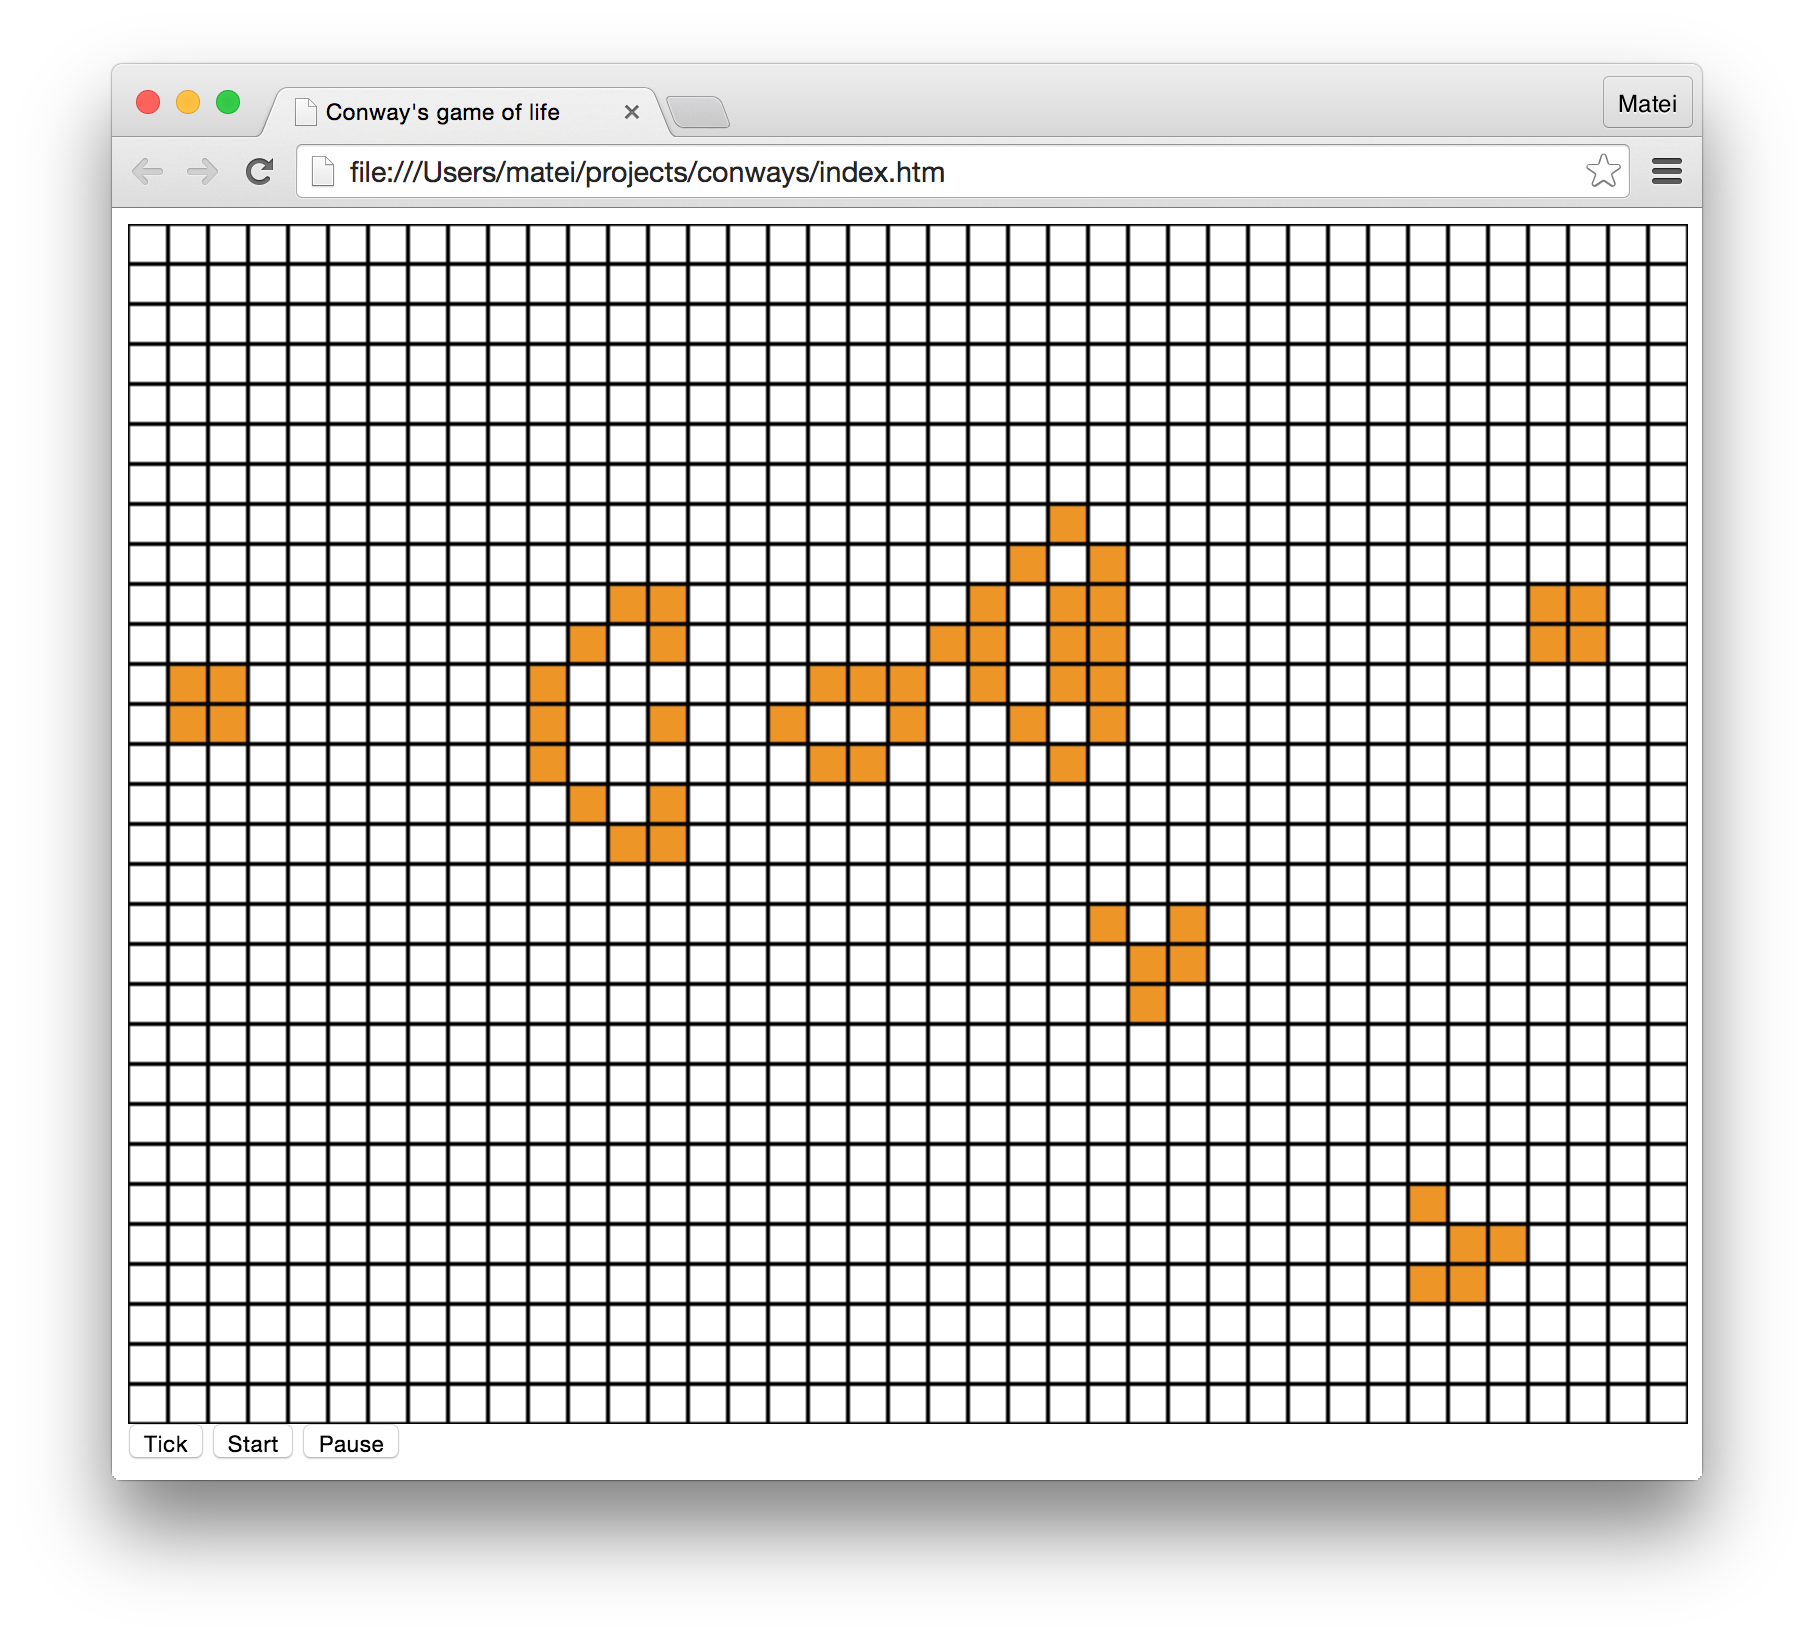
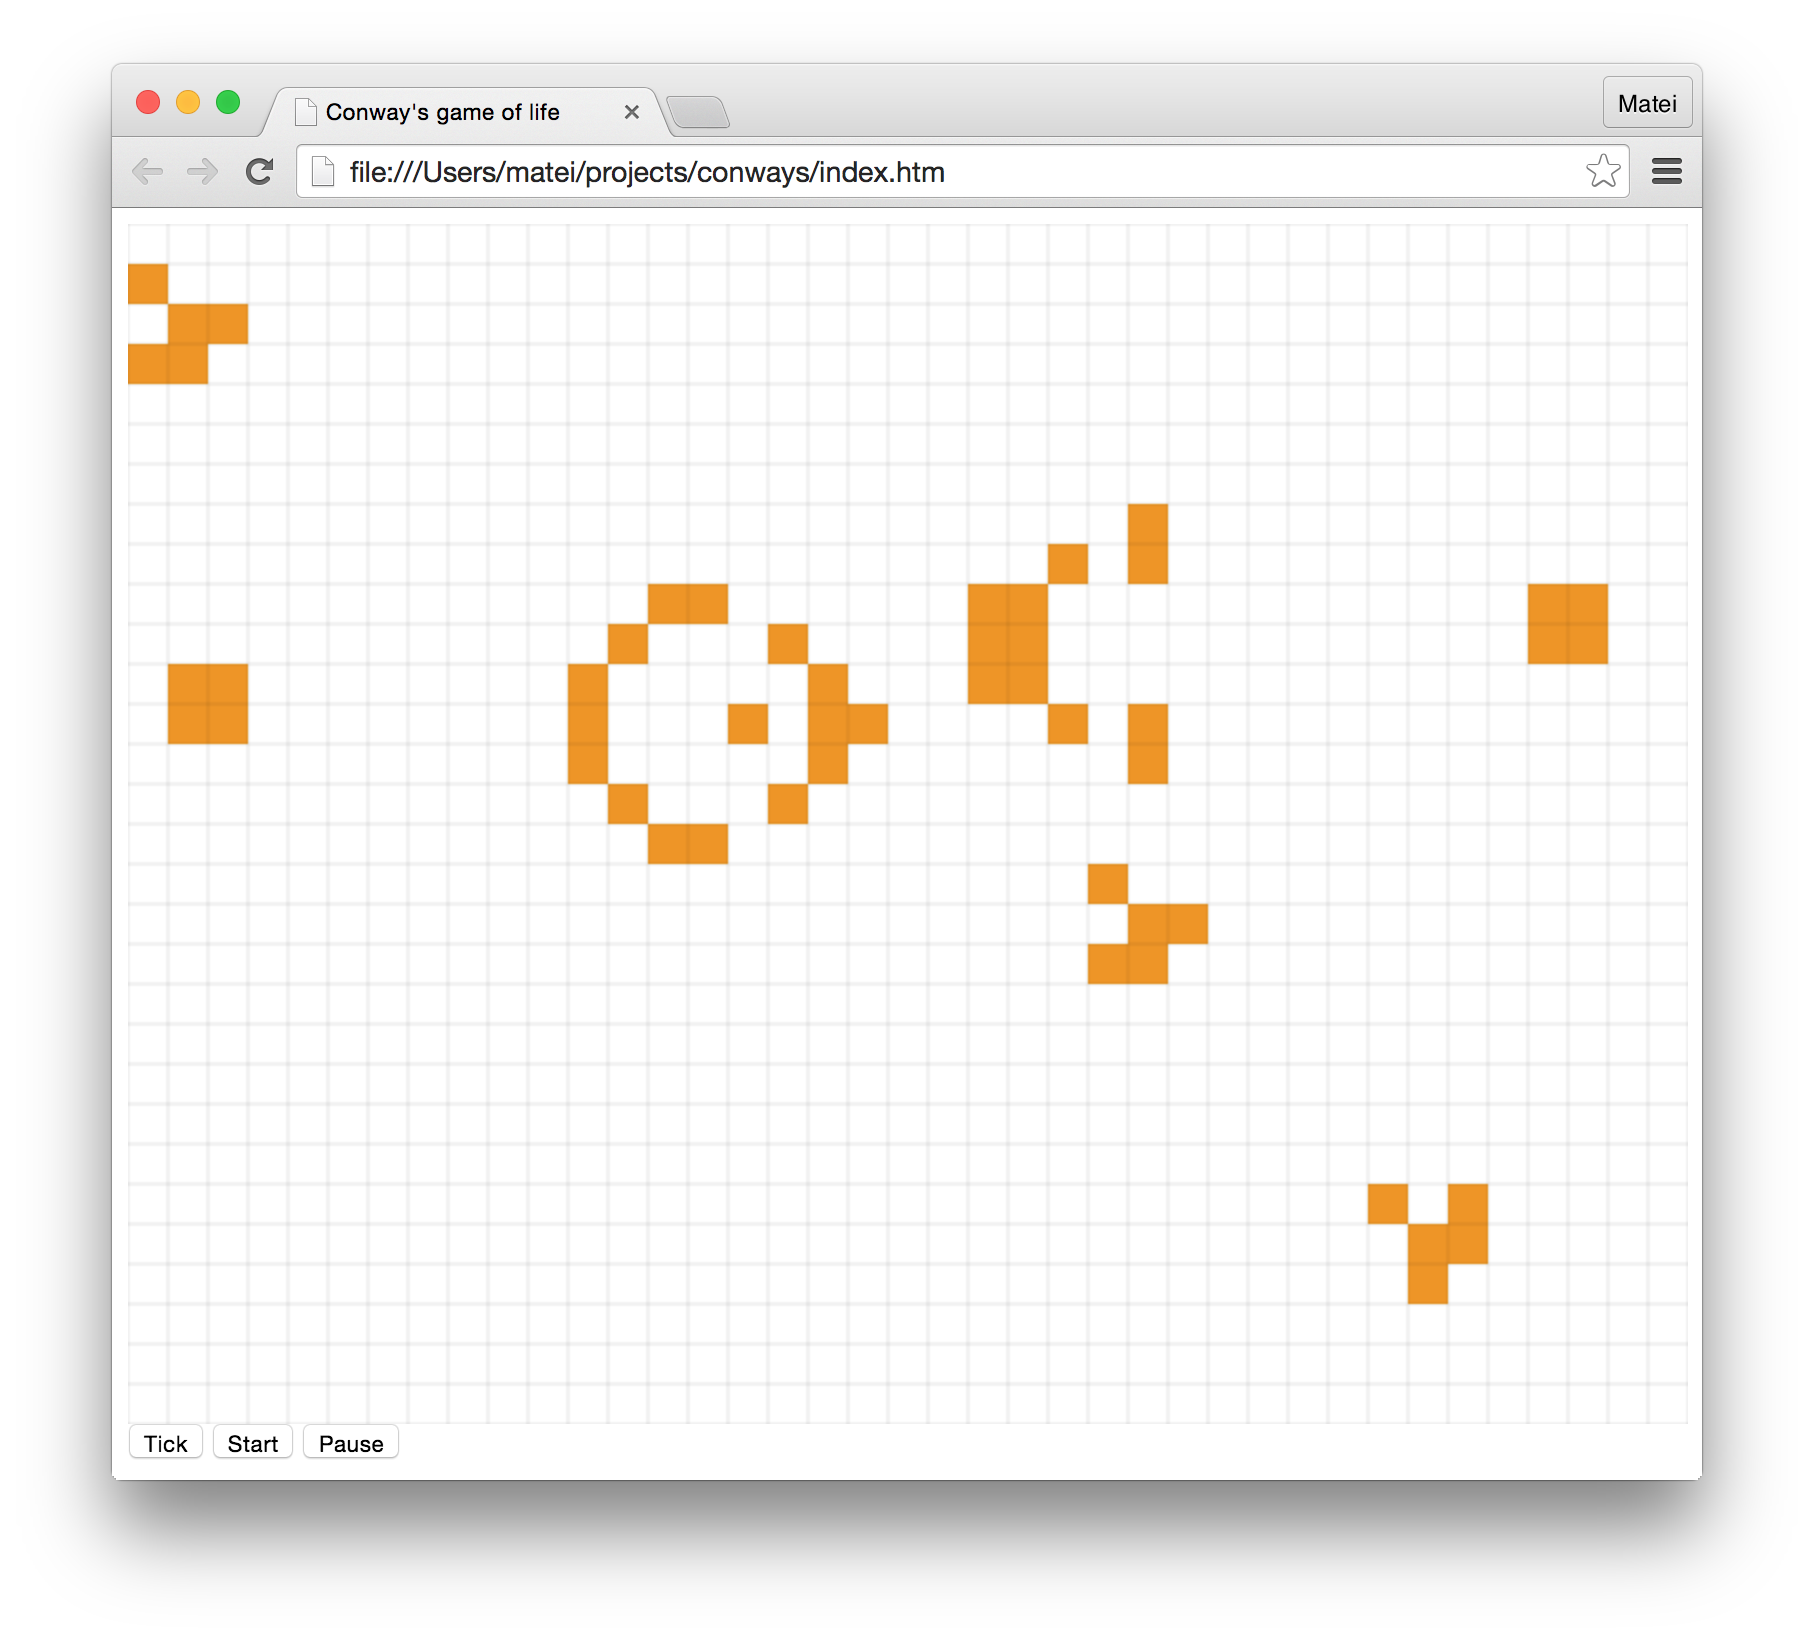
Thined out the lines a little, loks a little better

Changed region(s): [[0.0617, 0.1244, 0.9261, 0.8707]]

diff --git a/Scripts/conway/conway.js b/Scripts/conway/conway.js
@@ -148,7 +148,7 @@ conway.game = function (initialData) {
 
         for(var i = 0; i <= height; i = i + cellSize){
             context.beginPath();
-            context.lineWidth = 2;
+            context.lineWidth = 0.1;
             context.moveTo(0, i);
             context.lineTo(width, i);
             context.stroke();
@@ -156,7 +156,7 @@ conway.game = function (initialData) {
 
         for(var i = 0; i <= width; i = i + cellSize){
             context.beginPath();
-            context.lineWidth = 2;
+            context.lineWidth = 0.1;
             context.moveTo(i, 0);
             context.lineTo(i, height);
             context.stroke();
@@ -209,4 +209,3 @@ conway.game = function (initialData) {
         }
     };
 };
-
